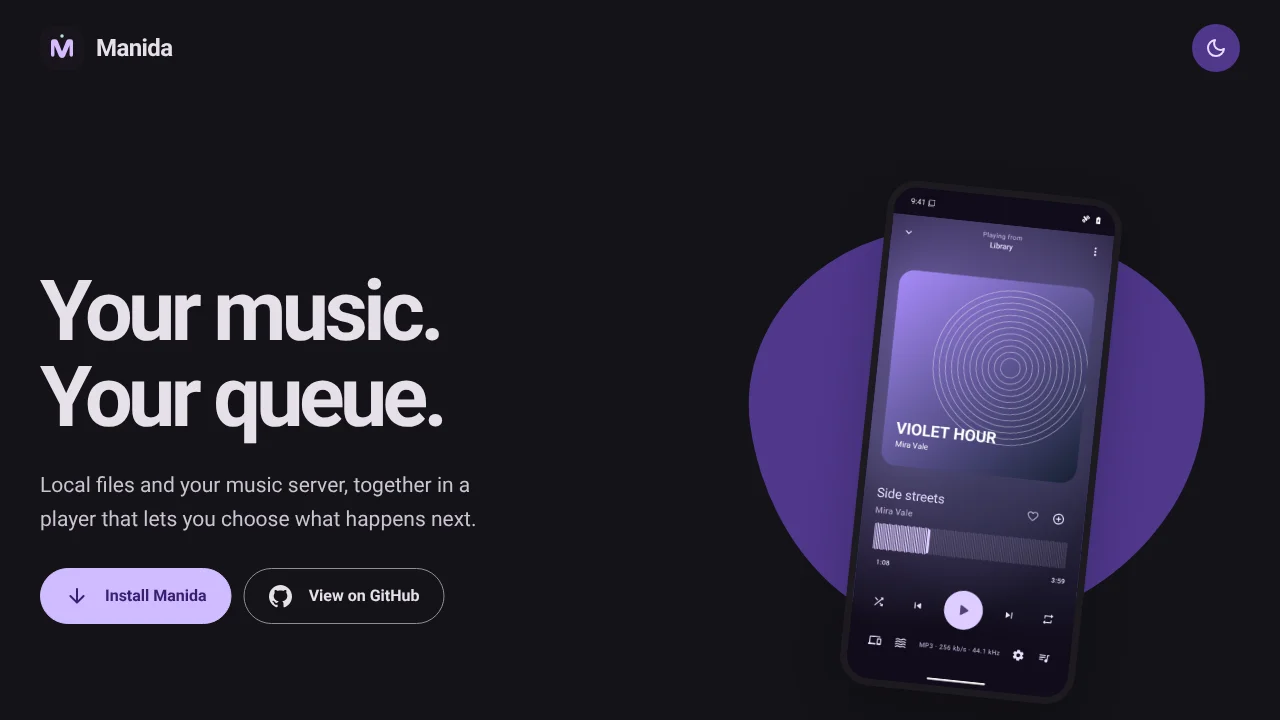
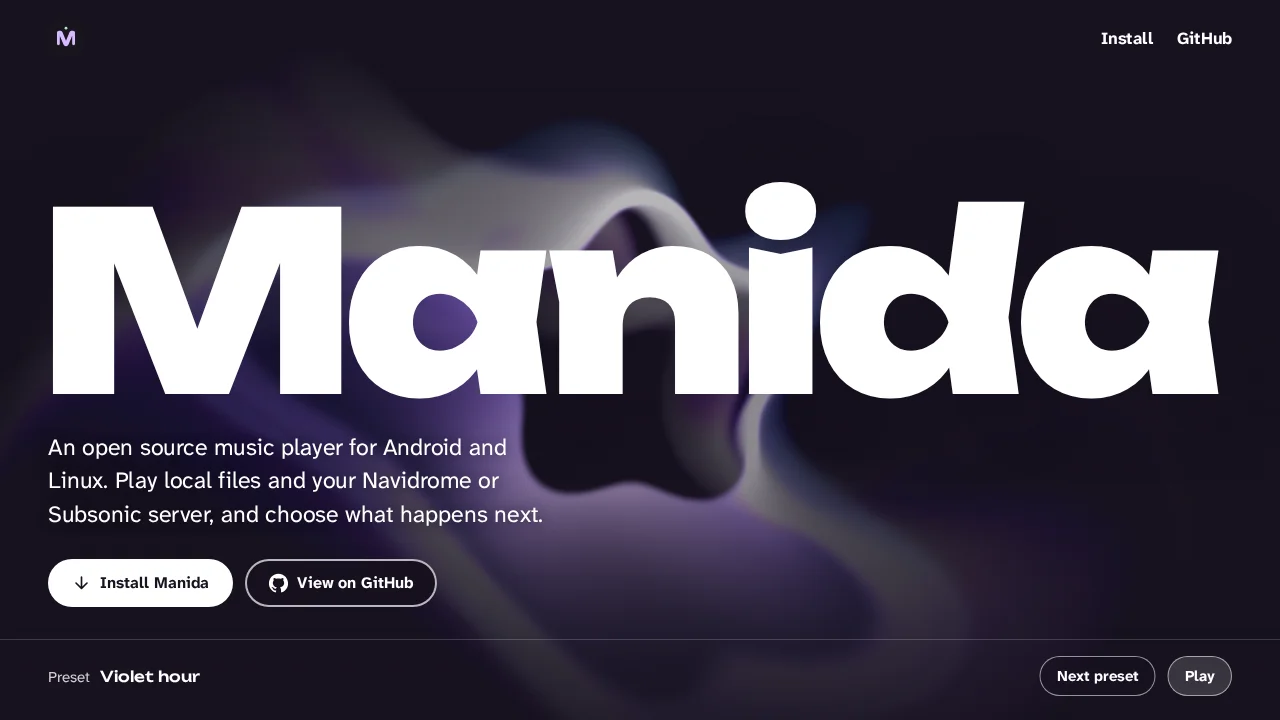
fix: refresh Manida homepage screenshot

diff --git a/index.html b/index.html
@@ -57,7 +57,7 @@
 
                     <div class="project-card">
                         <a class="project-link" href="https://manida.d3sox.me/" target="_blank" rel="noopener">
-                            <img src="manida.webp" alt="Manida website with the app's Now playing screen" width="1280" height="720">
+                            <img src="manida.webp" alt="Manida website with a purple visualizer background" width="1280" height="720">
                             <svg class="icon" width="1em" height="1em" viewBox="0 0 24 24" aria-hidden="true"><use href="/icons.svg#mdi-link"></use></svg> Manida
                         </a>
                         <div class="project-description">
